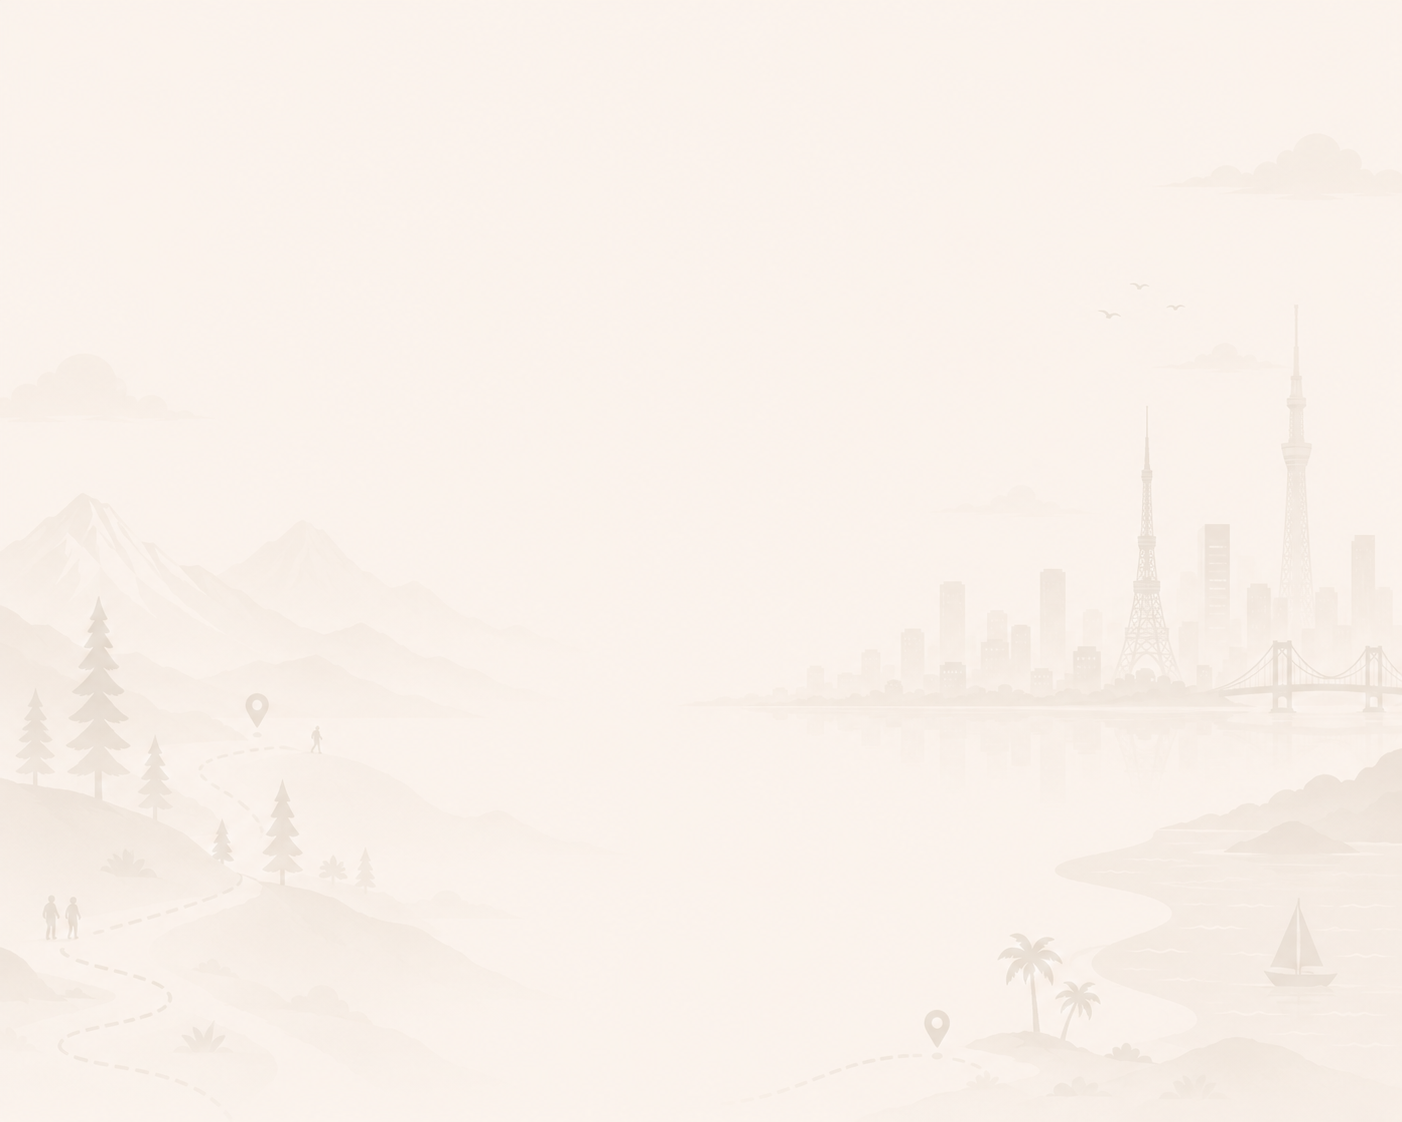
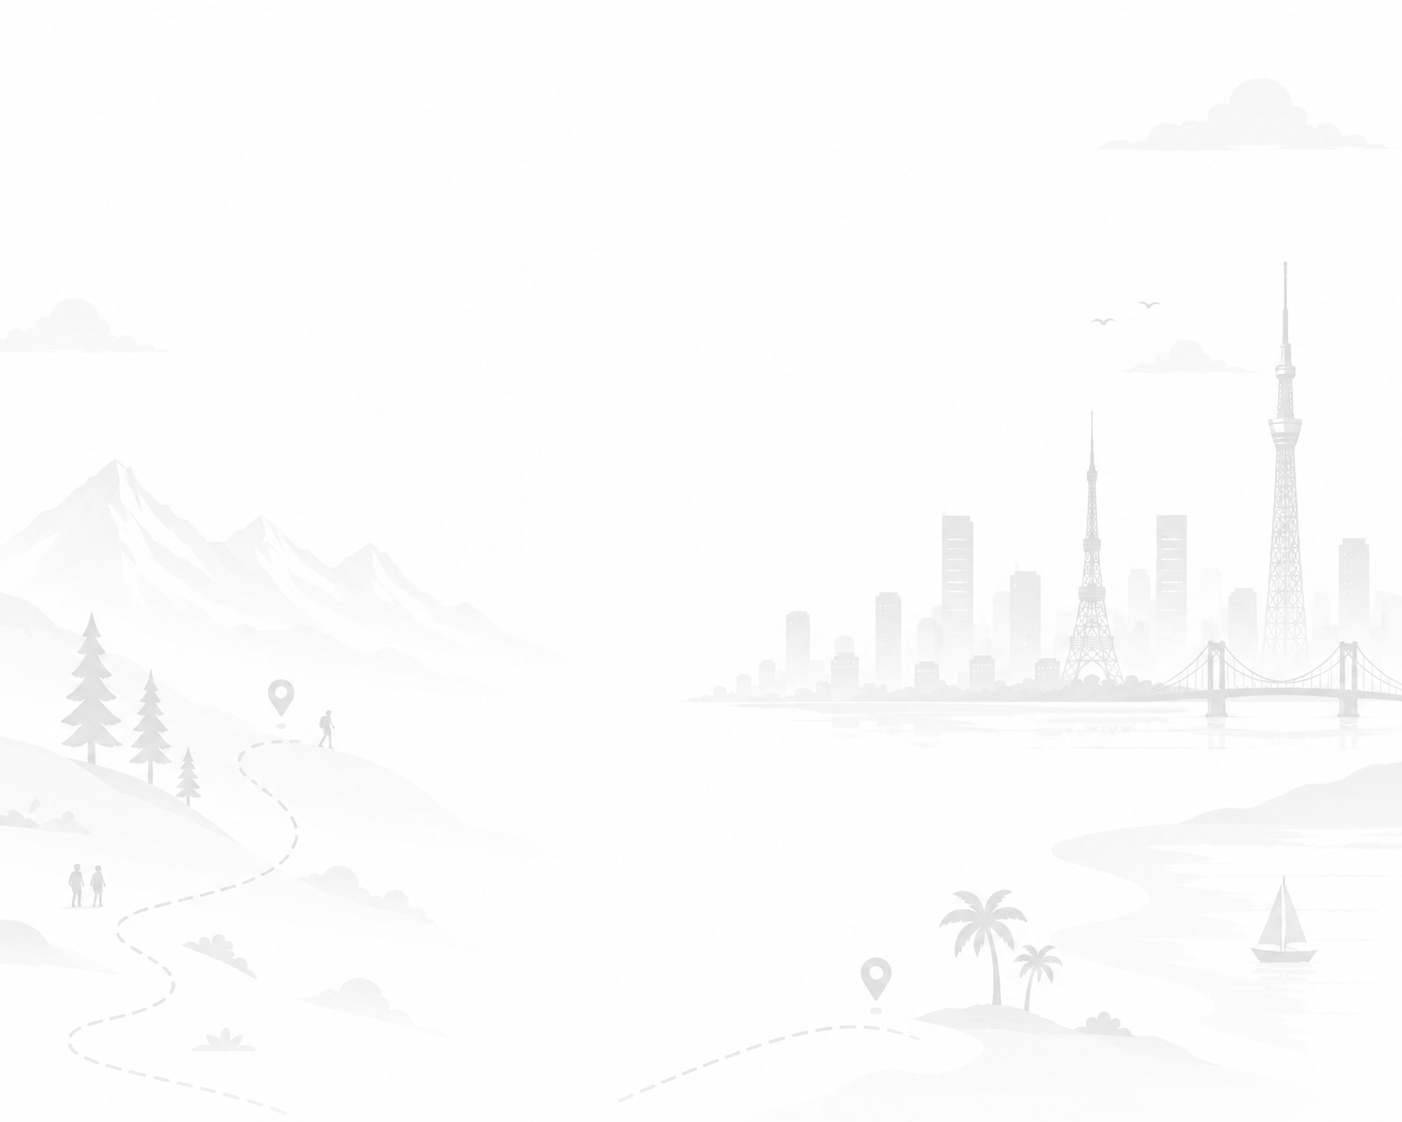
timeline now has bg

diff --git a/app/(dev)/dev/activity-timeline/page.tsx b/app/(dev)/dev/activity-timeline/page.tsx
@@ -311,7 +311,10 @@ export default function ActivityTimelineSandbox() {
 
           <div className="flex flex-col gap-6">
             {/* Live preview */}
-            <div className="bg-white rounded-lg p-4 flex justify-center">
+            <div
+              className="bg-white rounded-lg p-4 flex justify-center bg-no-repeat bg-cover bg-center"
+              style={{ backgroundImage: "linear-gradient(rgba(255,255,255,0.35), rgba(255,255,255,0.35)), url(/media/timeline/timeline-city.png)" }}
+            >
               <Timeline
                 key={`${renderKey}-${dayId}`}
                 dayId={dayId}

diff --git a/features/activity/Itinerary.tsx b/features/activity/Itinerary.tsx
@@ -182,7 +182,10 @@ export function Itinerary({
           />
         </div>
       ) : isTimeline ? (
-        <div className="bg-white rounded-lg p-4 flex justify-center">
+        <div
+          className="bg-white rounded-lg p-4 flex justify-center bg-no-repeat bg-cover bg-center"
+          style={{ backgroundImage: "linear-gradient(rgba(255,255,255,0.35), rgba(255,255,255,0.35)), url(/media/timeline/timeline-city.png)" }}
+        >
           <Timeline
             dayId={dayId ?? ""}
             tripId={tripId ?? ""}
